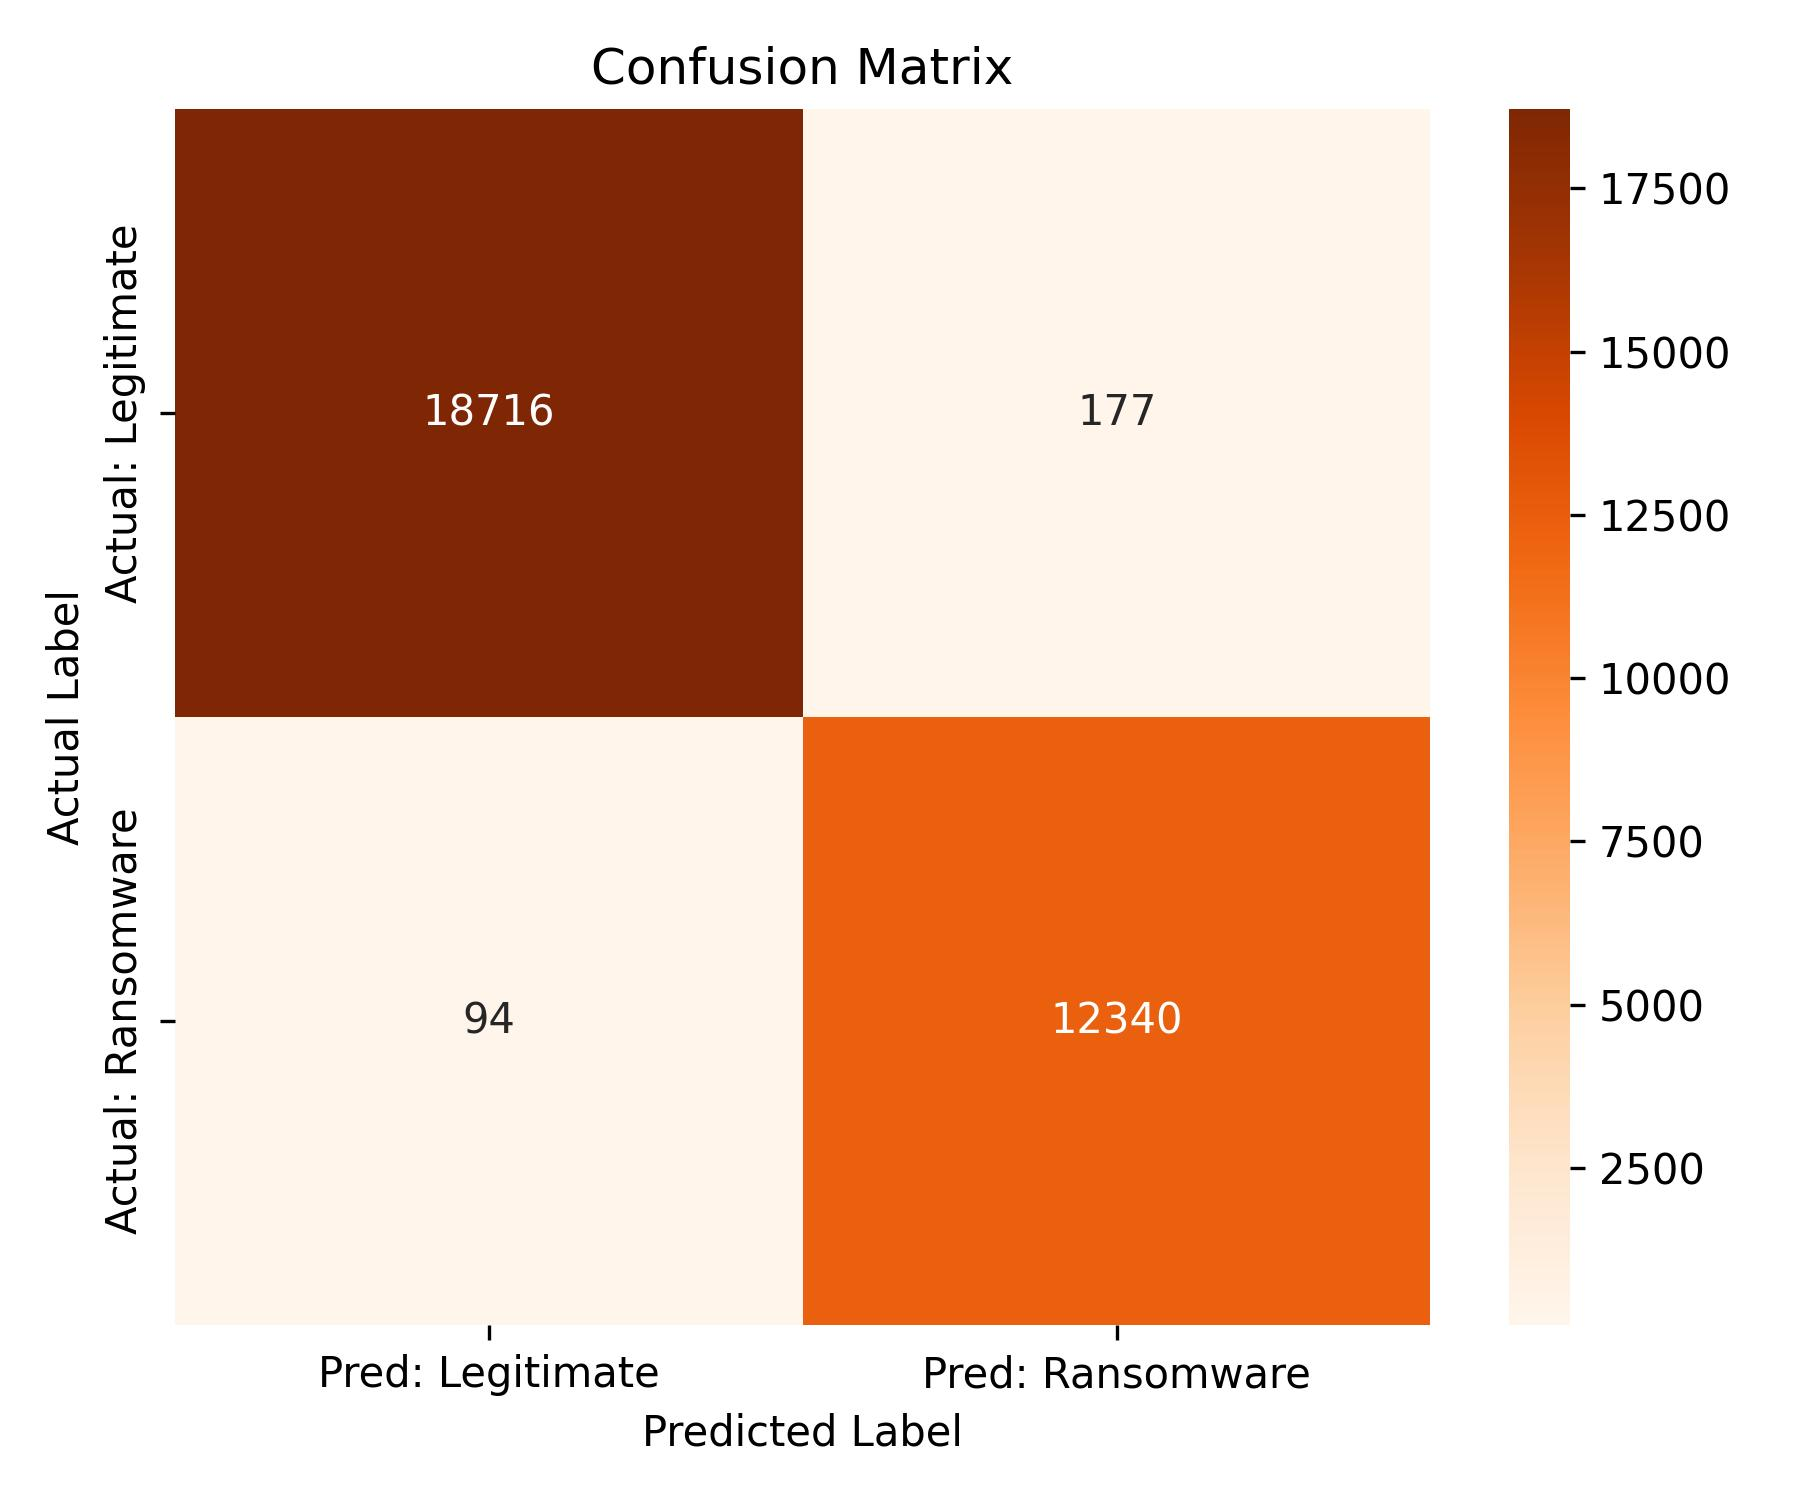
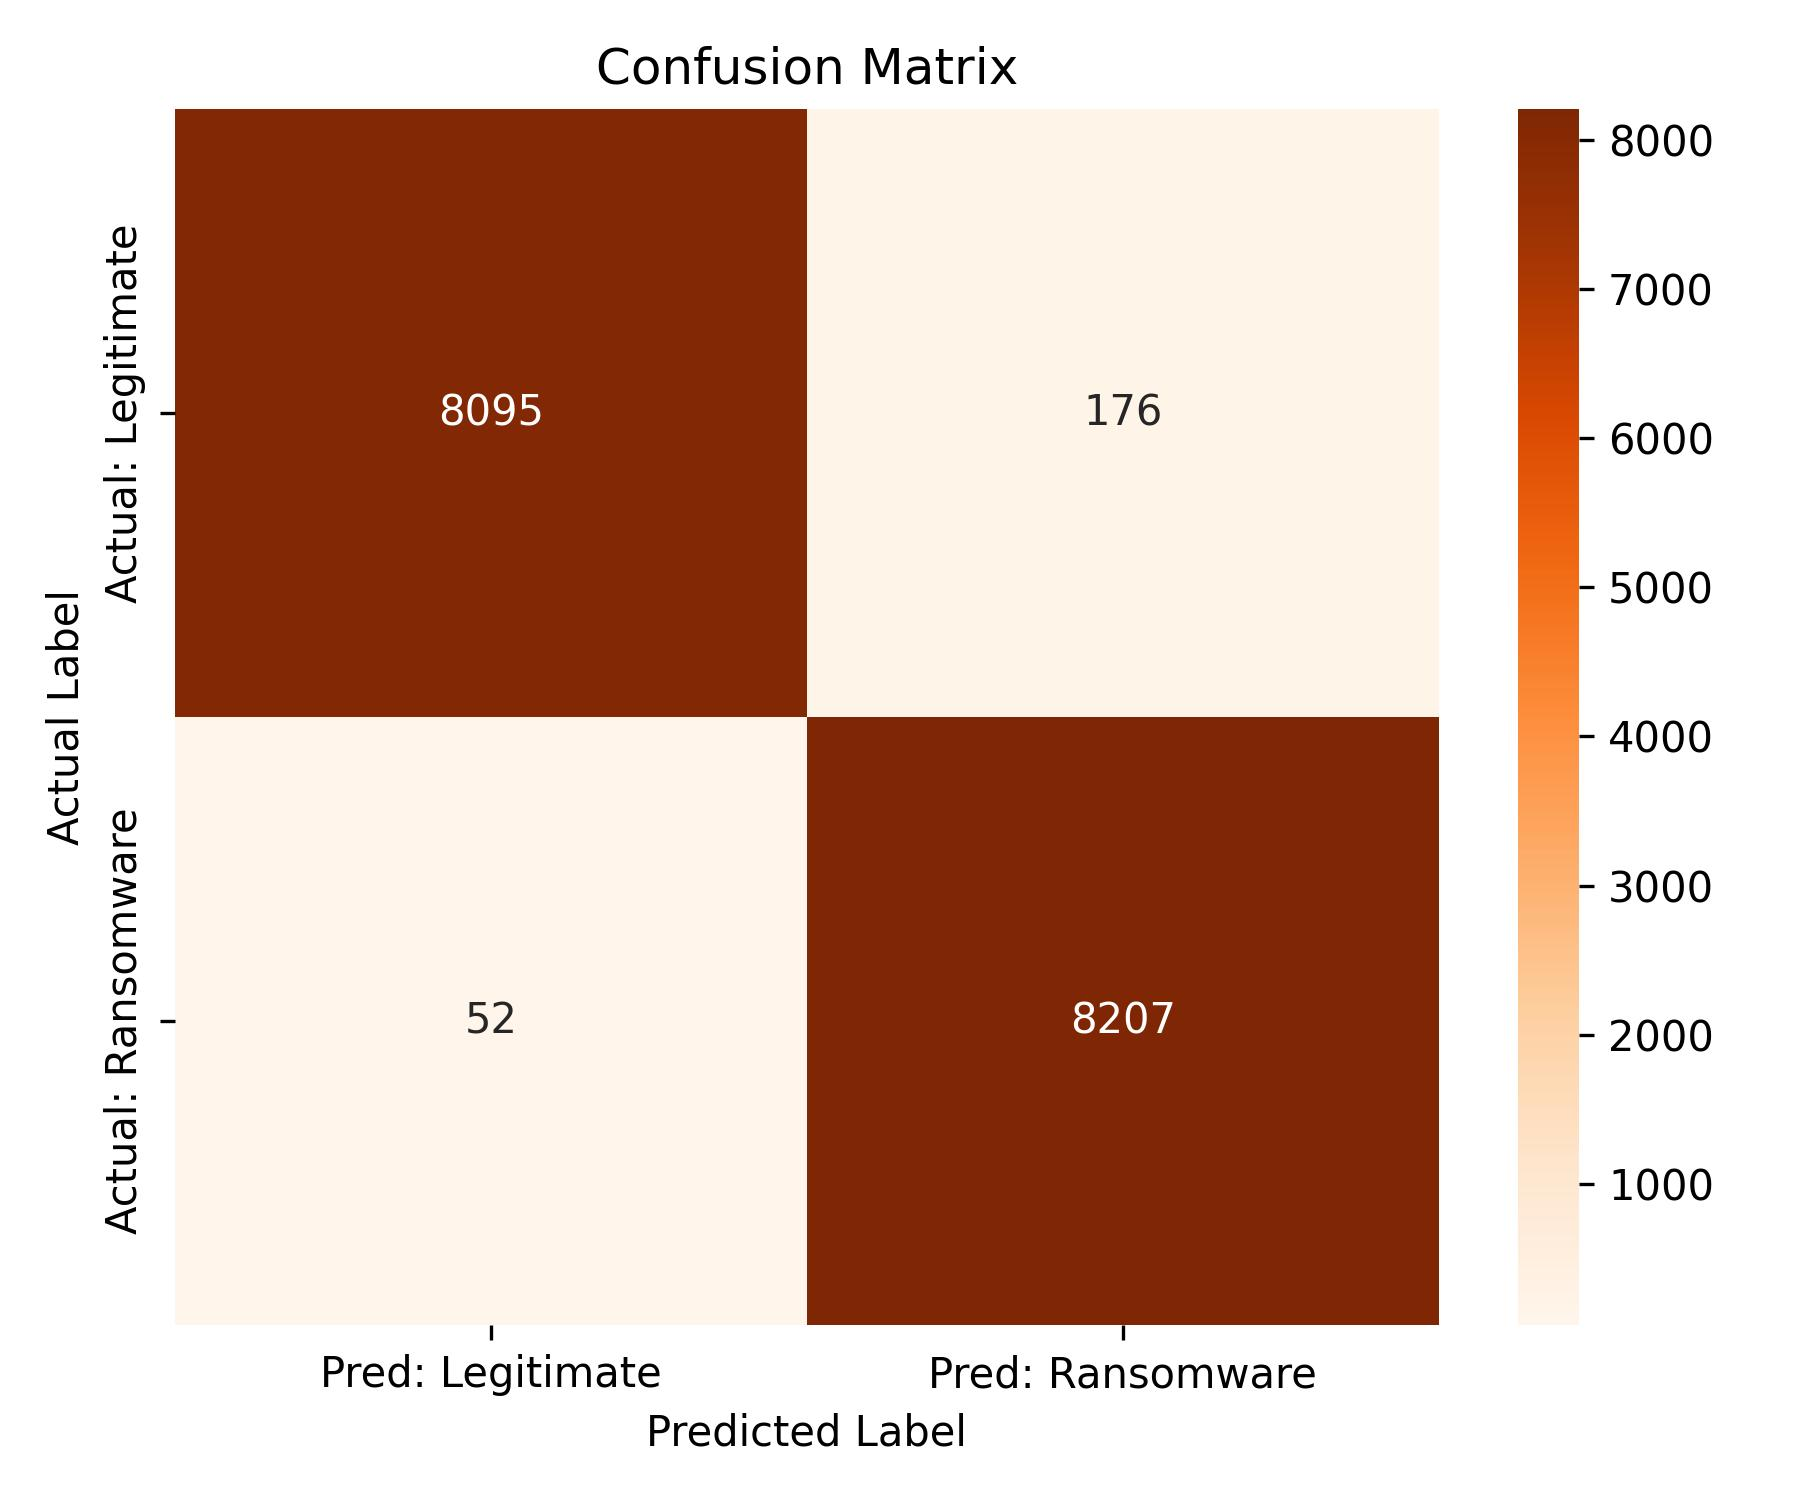
python changes and graphs regeneration

diff --git a/ml/scripts/model_test.py b/ml/scripts/model_test.py
@@ -4,31 +4,34 @@ import os
 from sklearn.preprocessing import StandardScaler
 
 # Load the saved model and scaler
-model_path = os.path.join(os.path.dirname(__file__), "../models/logistic_regression_model.joblib")
-scaler_path = os.path.join(os.path.dirname(__file__), "../models/logistic_regression_scaler.joblib")
+model_path = os.path.join(os.path.dirname(__file__), "../models/RandomForestModel.joblib")
+scaler_path = os.path.join(os.path.dirname(__file__), "../models/scaler.joblib")
 model = joblib.load(model_path)
 scaler = joblib.load(scaler_path)
 
+columns = [
+    "SectionsMeanEntropy",
+    "SectionsMinEntropy",
+    "SectionsMaxEntropy",
+    "ResourcesMeanEntropy",
+    "ResourcesMinEntropy",
+    "ResourcesMaxEntropy",
+    "legitimate",
+]
+
 # Load original dataset for reference
-original_data = pd.read_csv("../datasets/ransomware.csv", delimiter='|')
-original_features = original_data.drop(['Name', 'md5', 'legitimate'], axis=1, errors='ignore').columns
+dataset_path = os.path.join(os.path.dirname(__file__), "../datasets/ransomware.csv")
+original_data = pd.read_csv(dataset_path, usecols=columns)
+original_features = original_data.drop(['legitimate'], axis=1, errors='ignore').columns
 
 # Sample data for prediction
 sample_data = pd.DataFrame([{
-    "Machine": 332,
-    "SizeOfOptionalHeader": 224,
-    "Characteristics": 271,
-    "MajorLinkerVersion": 2,
-    "MinorLinkerVersion": 25,
-    "SizeOfCode": 4096,
-    "SizeOfInitializedData": 8192,
-    "SizeOfUninitializedData": 0,
-    "AddressOfEntryPoint": 4096,
-    "BaseOfCode": 4096,
-    "BaseOfData": 8192,
-    "ImageBase": 4194304,
-    "SectionAlignment": 4096,
-    "FileAlignment": 512
+  "SectionsMeanEntropy": 4.741730951606168,
+  "SectionsMinEntropy": 1.3437433003808203,
+  "SectionsMaxEntropy": 6.553433967169684,
+  "ResourcesMeanEntropy": 4.988699797237637,
+  "ResourcesMinEntropy": 2.713837730226897,
+  "ResourcesMaxEntropy": 6.473885332454082,
 }])  # Ensure data matches expected structure
 
 # Align columns to match training data

diff --git a/ml/scripts/save_correlation_matrix.py b/ml/scripts/save_correlation_matrix.py
@@ -3,9 +3,20 @@ import seaborn as sns
 import matplotlib.pyplot as plt
 import os
 
+
+columns = [
+    "SectionsMeanEntropy",
+    "SectionsMinEntropy",
+    "SectionsMaxEntropy",
+    "ResourcesMeanEntropy",
+    "ResourcesMinEntropy",
+    "ResourcesMaxEntropy",
+    "legitimate",
+]
+
 # Load your dataset
-dataset_path = os.path.join(os.path.dirname(__file__), "../datasets/cleaned.csv")
-df = pd.read_csv(dataset_path)
+dataset_path = os.path.join(os.path.dirname(__file__), "../datasets/ransomware.csv")
+df = pd.read_csv(dataset_path, usecols=columns)
 
 # Optional: drop non-numeric columns if needed
 # df = df.select_dtypes(include=['number'])

diff --git a/ml/scripts/save_confusion_matrix.py b/ml/scripts/save_confusion_matrix.py
@@ -3,7 +3,7 @@ import seaborn as sns
 import os
 
 # Confusion matrix values
-conf_matrix = [[18716, 177], [94, 12340]]
+conf_matrix = [[8095, 176], [52, 8207]]
 
 # Plotting
 plt.figure(figsize=(6, 5))
